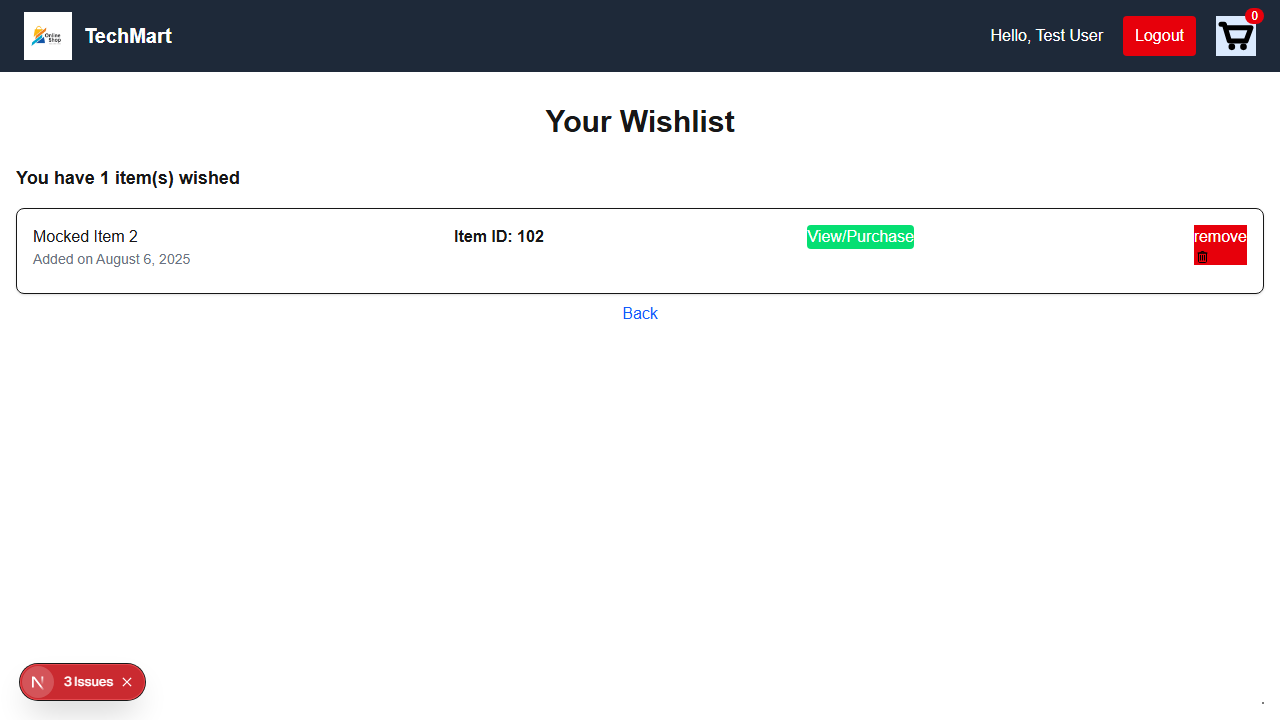
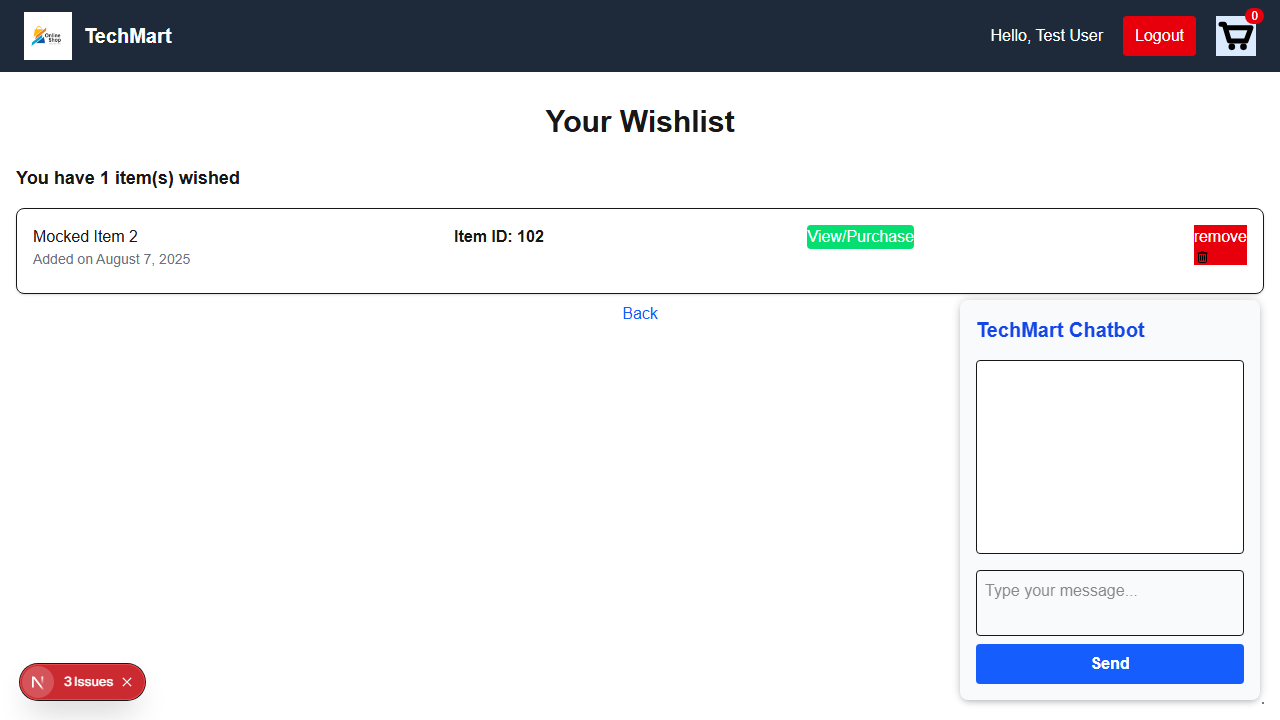
feat(chatbot): added draggable behavior to ChatbotUI for better UX and layout flexibility

Changed region(s): [[0.75, 0.8861, 1.0, 0.9778], [0.75, 0.4278, 0.9062, 0.4889], [0.7812, 0.7944, 0.875, 0.825]]

diff --git a/src/components/ChatbotUI.tsx b/src/components/ChatbotUI.tsx
@@ -1,43 +1,85 @@
 'use client'
-import { useState, useEffect } from "react"
+import { useState, useRef, useEffect } from "react"
+
 export default function ChatbotUI() {
-    const [messages, setMessages] = useState<string[]>([])
-    const [newMessage, setNewMessage] = useState<string>('')
-    const sendMessage = async () => {
-        const response = await fetch('http://localhost:3001/chat', {
-            method: 'POST',
-            headers: { 'Content-Type': 'application/json' },
-            body: JSON.stringify({ message: newMessage }),
-        });
+  const [messages, setMessages] = useState<string[]>([])
+  const [newMessage, setNewMessage] = useState<string>('')
+  const chatbotRef = useRef<HTMLDivElement>(null)
+  const isDragging = useRef(false)
+  const offset = useRef({ x: 0, y: 0 })
 
-        const data = await response.json(); // assuming response shape: { reply: string }
+  useEffect(() => {
+    const handleMouseMove = (e: MouseEvent) => {
+      if (!isDragging.current || !chatbotRef.current) return
+      chatbotRef.current.style.left = `${e.clientX - offset.current.x}px`
+      chatbotRef.current.style.top = `${e.clientY - offset.current.y}px`
+    }
 
-        setMessages(prev => [...prev, `🧑 ${newMessage}`, `🤖 ${data.reply}`]);
-        setNewMessage('');
-    };
-    return (
-        <div className="max-w-2xl mx-auto p-4 bg-gray-50 rounded-lg shadow-md">
-            <h1 className="text-xl font-bold mb-4 text-blue-700">TechMart Chatbot</h1>
+    const handleMouseUp = () => {
+      isDragging.current = false
+    }
 
-            <div className="space-y-2 mb-4 h-64 overflow-y-auto border rounded p-2 bg-white">
-                {messages.map((msg, i) => (
-                    <p key={i} className="text-sm text-gray-800">{msg}</p>
-                ))}
-            </div>
+    window.addEventListener('mousemove', handleMouseMove)
+    window.addEventListener('mouseup', handleMouseUp)
 
-            <textarea
-                value={newMessage}
-                onChange={e => setNewMessage(e.target.value)}
-                placeholder="Type your message..."
-                className="w-full border rounded p-2 mb-2 resize-none"
-            />
+    return () => {
+      window.removeEventListener('mousemove', handleMouseMove)
+      window.removeEventListener('mouseup', handleMouseUp)
+    }
+  }, [])
 
-            <button
-                onClick={sendMessage}
-                className="w-full bg-blue-600 hover:bg-blue-700 text-white font-semibold py-2 px-4 rounded"
-            >
-                Send
-            </button>
+  const handleMouseDown = (e: React.MouseEvent) => {
+    if (!chatbotRef.current) return
+    isDragging.current = true
+    const rect = chatbotRef.current.getBoundingClientRect()
+    offset.current = {
+      x: e.clientX - rect.left,
+      y: e.clientY - rect.top,
+    }
+  }
+
+  const sendMessage = async () => {
+    const response = await fetch('http://localhost:3001/chat', {
+      method: 'POST',
+      headers: { 'Content-Type': 'application/json' },
+      body: JSON.stringify({ message: newMessage }),
+    })
+
+    const data = await response.json()
+    setMessages(prev => [...prev, `🧑 ${newMessage}`, `🤖 ${data.reply}`])
+    setNewMessage('')
+  }
+
+  return (
+    <div
+      id="chatbot-ui"
+      ref={chatbotRef}
+      style={{ position: 'fixed', bottom: '20px', right: '20px', zIndex: 9999 }}
+      onMouseDown={handleMouseDown}
+    >
+      <div className="max-w-2xl mx-auto p-4 bg-gray-50 rounded-lg shadow-md h-full flex flex-col">
+        <h1 className="text-xl font-bold mb-4 text-blue-700">TechMart Chatbot</h1>
+
+        <div className="space-y-2 mb-4 flex-1 overflow-y-auto border rounded p-2 bg-white">
+          {messages.map((msg, i) => (
+            <p key={i} className="text-sm text-gray-800">{msg}</p>
+          ))}
         </div>
-    )
+
+        <textarea
+          value={newMessage}
+          onChange={e => setNewMessage(e.target.value)}
+          placeholder="Type your message..."
+          className="w-full border rounded p-2 mb-2 resize-none"
+        />
+
+        <button
+          onClick={sendMessage}
+          className="w-full bg-blue-600 hover:bg-blue-700 text-white font-semibold py-2 px-4 rounded"
+        >
+          Send
+        </button>
+      </div>
+    </div>
+  )
 }

diff --git a/src/app/layout.tsx b/src/app/layout.tsx
@@ -35,8 +35,8 @@ export default function RootLayout({
             <Navbar />
             {children}
             <div className="fixed bottom-4 right-4 overflow-hidden z-50 shadow-lg bg-white border rounded-lg">
-  {/* <ChatbotUI /> */}
-</div>
+              <ChatbotUI />
+            </div>
           </CartProvider>
         </AuthProvider>
       </body>

diff --git a/src/app/globals.css b/src/app/globals.css
@@ -32,3 +32,15 @@ body {
   stroke-linejoin:round;
   stroke-width:2px;
 }
+
+#chatbot-ui {
+  position: fixed;
+  bottom: 20px;
+  right: 20px;
+  z-index: 9999; /* High enough to stay on top, but not interfere */
+  width: 300px;
+  height: 400px;
+  background-color: white;
+  box-shadow: 0 0 10px rgba(0,0,0,0.2);
+  border-radius: 10px;
+}
